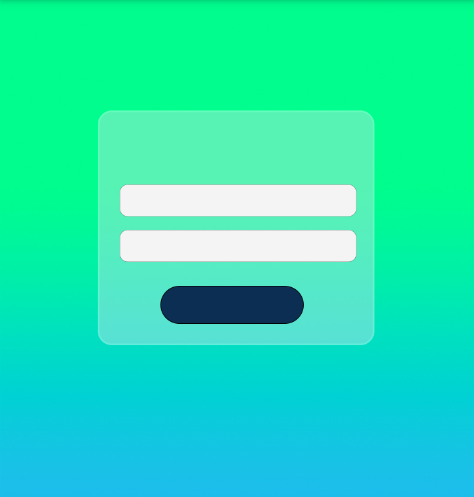
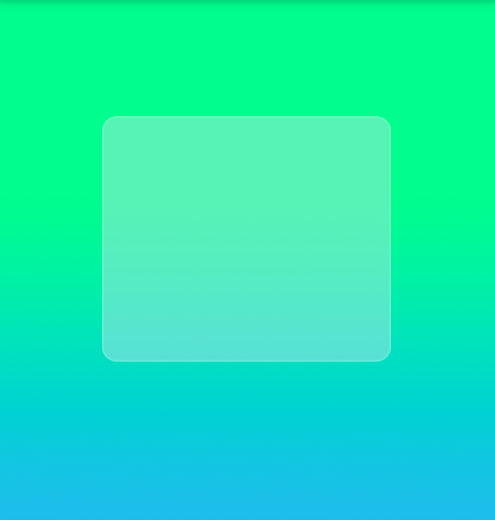
Auth window

Changed region(s): [[0.2363, 0.3622, 0.7679, 0.5433], [0.3249, 0.5734, 0.6498, 0.664]]

diff --git a/src/main/java/com/dima/eliseev/Auth_window.java b/src/main/java/com/dima/eliseev/Auth_window.java
@@ -1,0 +1,28 @@
+package com.dima.eliseev;
+
+import javax.swing.*;
+import java.awt.*;
+
+public class Auth_window extends JFrame {
+
+    public Auth_window() throws HeadlessException {
+
+        setVisible(true);
+        ImageIcon img = new ImageIcon("E:\\Java\\deeplomka\\OHPTIIFVOD\\src\\main\\java\\com\\dima\\eliseev\\img.jpg");
+        setIconImage(img.getImage());
+        setDefaultCloseOperation(JFrame.EXIT_ON_CLOSE);
+        setTitle("Login");
+        setSize(495,520);
+        setResizable(false);
+
+        JLabel label = new JLabel();
+        ImageIcon backgrIMG = new ImageIcon("E:\\Java\\deeplomka\\OHPTIIFVOD\\src\\main\\java\\com\\dima\\eliseev\\background_image.png");
+        label.setIcon(backgrIMG);
+
+        add(label);
+
+
+
+
+    }
+}

diff --git a/src/main/java/com/dima/eliseev/Main.java b/src/main/java/com/dima/eliseev/Main.java
@@ -4,12 +4,8 @@ import javax.swing.*;
 
 public class Main {
     public static void main(String[] args) {
-        JFrame frame = new JFrame("Login");
-        frame.setVisible(true);
-        ImageIcon img = new ImageIcon("E:\\Java\\deeplomka\\OHPTIIFVOD\\src\\main\\java\\com\\dima\\eliseev\\img.jpg");
-        frame.setIconImage(img.getImage());
-        frame.setDefaultCloseOperation(JFrame.EXIT_ON_CLOSE);
 
-        System.out.println("U");
+        new Auth_window();
+
     }
 }
